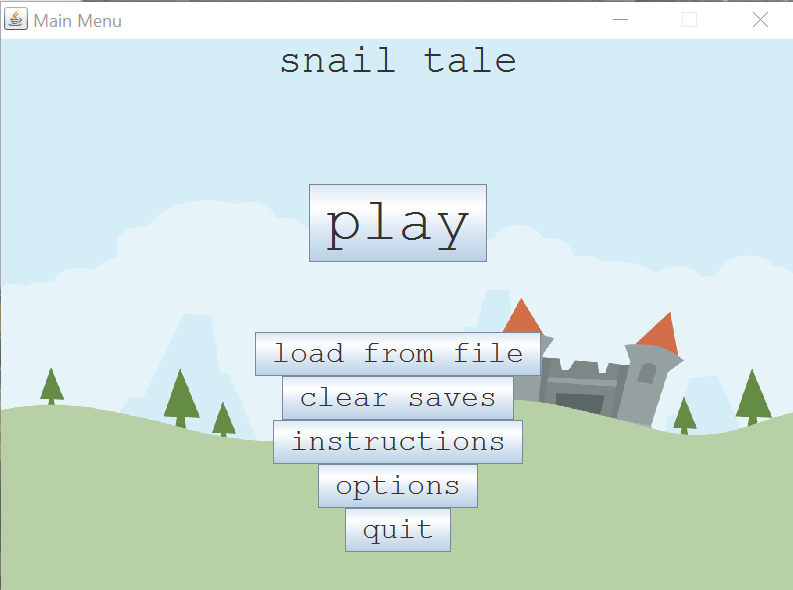
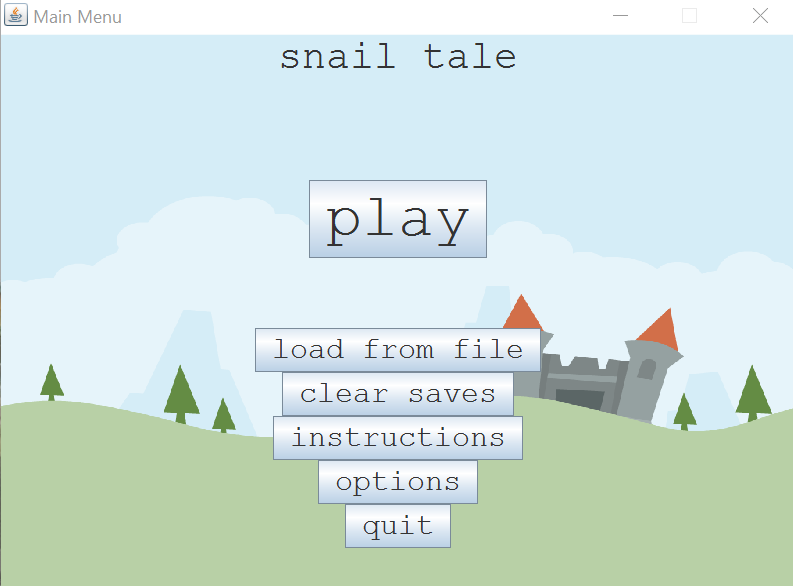
Update MainMenu.png - Crop aligned. projects.html - Make link unclickable

diff --git a/projects.html b/projects.html
@@ -43,7 +43,7 @@
 <p>Created an interactive scrolling platform game within a team (4) over several months for  the Texas Computer Educators Association's 0100 Elements game programming competition. Received 2nd place and written in Java.</p>
 <h4>Project Summary</h4>
 <p>A snail goes through Summer, Fall, Winter, and Spring fighting slimes, going through normal, spiky, and disappearing platforms, and overcoming tricky obstacles to collect gems in order to save the world from seasonal destruction.</p>
-<a href = "https://drive.google.com/open?id=0B-S5sh0cBWk1V1dQMTJHSVRmYkU">Downloadable Snail Tale Jar<a>
+<a href = "https://drive.google.com/open?id=0B-S5sh0cBWk1V1dQMTJHSVRmYkU">Downloadable Snail Tale Jar</a>
 <h2>Piano A GUI Project</h2>
 <hr>
 <h4>Description</h4>
